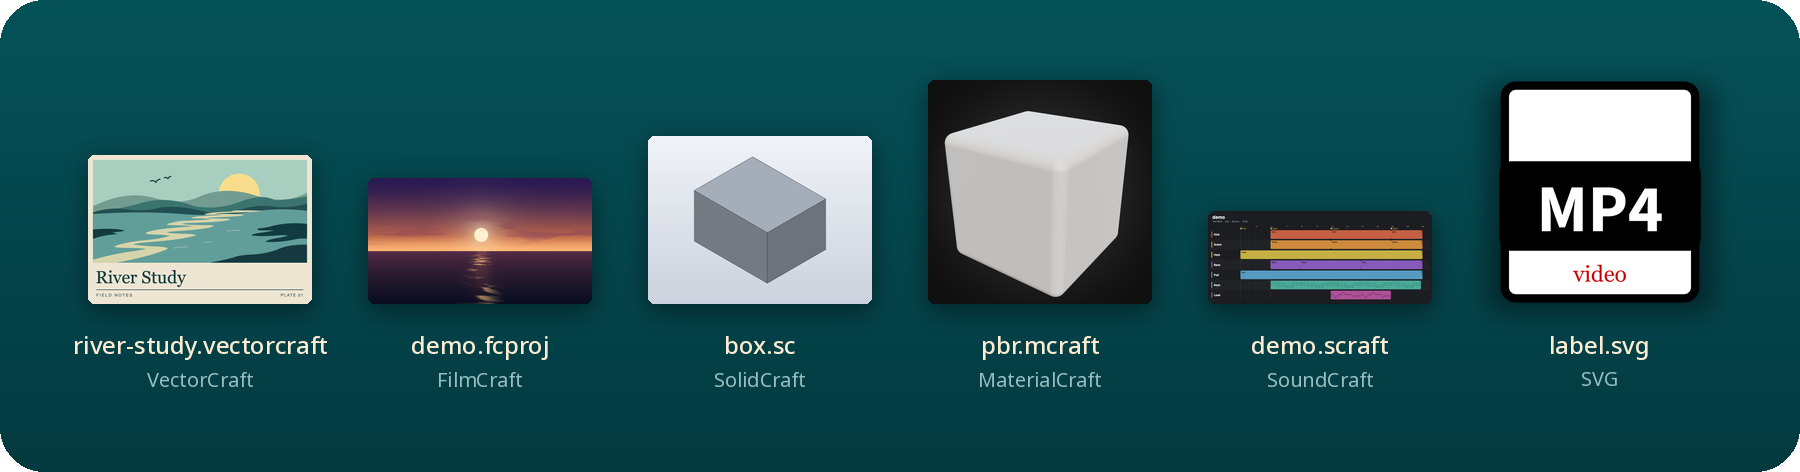
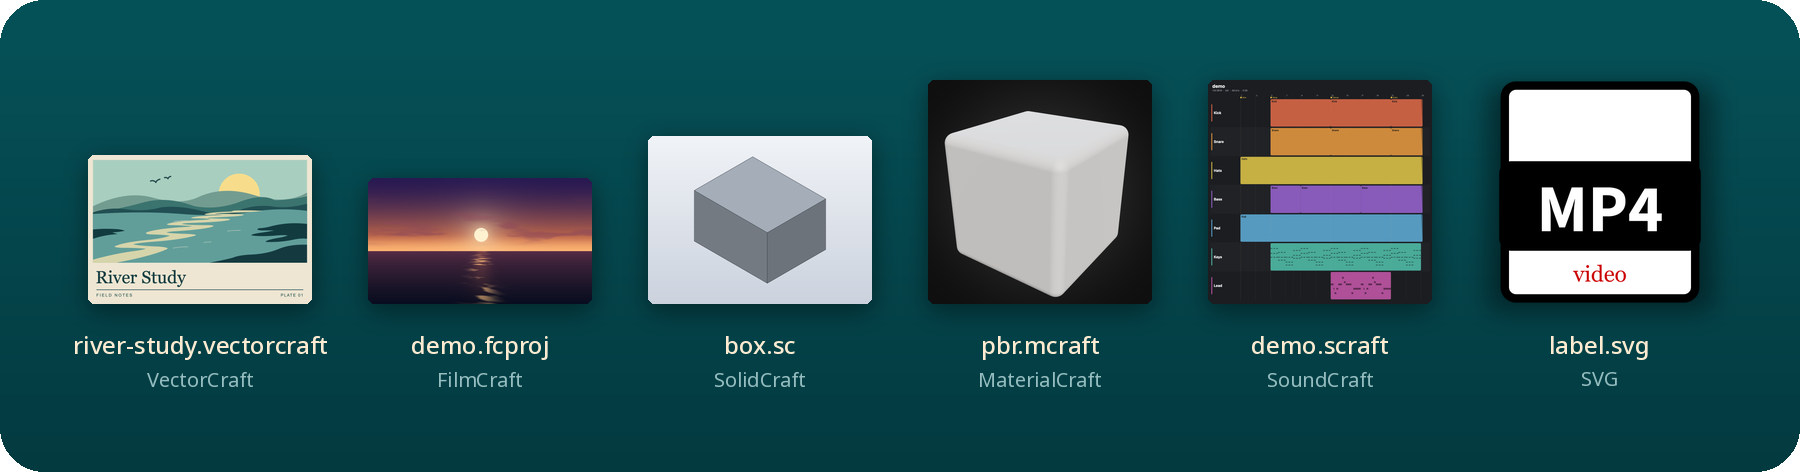
CraftLook 0.3.1: timeline di SoundCraft quadrata e build pronta per la notarizzazione
- Sources/Timeline.swift: la scheda è sempre quadrata, 1600 punti per lato; le corsie si dividono
  l'altezza sotto il righello, fino a 240 punti l'una, e poche tracce stanno al centro.
  Tests/check.py prova tre sessioni (normale, 64 tracce lunghe, una traccia): 2048x2048.
- build.sh: runtime protetto su ogni parte, dall'interno verso l'esterno (renderer, servizio,
  estensioni, app), con l'identità di CRAFTLOOK_SIGN_ID e la marca temporale, o ad hoc senza.
  I renderer tengono gli entitlement della firma originale: solo SolidCraft ne ha uno,
  allow-unsigned-executable-memory, per i plugin WebAssembly del suo wasmtime.
- scripts/release.sh: build firmata, notarytool submit col profilo craftlook-notary, stapler,
  spctl, gli archivi craftlook-<versione>-macos.zip e -source.zip e il file degli SHA-256.
- Versione 0.3.1 (build 11), la prima release col nome CraftLook: le note della 0.3.0, mai
  pubblicata, diventano docs/release-notes/0.3.1.md; README, Rules.md e THIRD_PARTY.md
  aggiornati, e docs/images/formats.png con la timeline quadrata.

Agent: Grok Bot

Changed region(s): [[0.6533, 0.1483, 0.8089, 0.6229]]

diff --git a/Sources/Timeline.swift b/Sources/Timeline.swift
@@ -4,12 +4,13 @@ import CoreGraphics
 /// The timeline of a SoundCraft session (.scraft, JSON), drawn as a diagram: one lane per track,
 /// its clips where and as long as they play, MIDI notes inside instrument clips, markers and playhead.
 /// SoundCraft counts time in samples at the session's rate and MIDI notes in ticks of 1/960 of a beat.
+/// The card is always square, like a Finder thumbnail: the lanes share its height, whatever the session.
 enum Timeline {
     private struct Clip { let start, length: Double; let name: String; let muted: Bool
                           let fadeIn, fadeOut: Double; let notes: [(start: Double, length: Double, pitch: Int)] }
     private struct Track { let name: String; let color: CGColor; let muted: Bool; let clips: [Clip] }
     private static let ticksPerBeat = 960.0
-    private static let width: CGFloat = 1600
+    private static let side: CGFloat = 1600
 
     static func image(_ data: Data, maxSide: Int) throws -> CGImage {
         guard let root = try JSONSerialization.jsonObject(with: data) as? [String: Any],
@@ -30,21 +31,22 @@ enum Timeline {
         let playhead = number((root["edit"] as? [String: Any])?["playhead"])
         let end = max(rate, ([0] + tracks.flatMap { $0.clips.map { $0.start + $0.length } } + markers.map { $0.0 }).max()!) * 1.03
 
-        // The layout, in points of a 1600-point-wide card.
+        // The layout, in points of a square card 1600 points wide: the lanes fill the height under the ruler,
+        // up to 240 points each, and a few tall lanes sit in the middle of it.
+        let width = side, height = side
         let header: CGFloat = 96, ruler: CGFloat = 36, left: CGFloat = 232, right: CGFloat = 28, bottom: CGFloat = 28
-        let lane = tracks.isEmpty ? 72 : max(22, min(72, (1000 - header - ruler - bottom) / CGFloat(tracks.count)))
-        let height = max(560, header + ruler + lane * CGFloat(max(tracks.count, 1)) + bottom)
-        let side = CGFloat(min(2048, max(16, maxSide)))
-        let scale = side / max(width, height)
-        let context = try Drawing.canvas(width: Int((width * scale).rounded()), height: Int((height * scale).rounded()),
-                                         scale: scale)
+        let area = height - header - ruler - bottom
+        let lane = min(240, area / CGFloat(max(tracks.count, 1)))
+        let pixels = CGFloat(min(2048, max(16, maxSide)))
+        let scale = pixels / side
+        let context = try Drawing.canvas(width: Int(pixels), height: Int(pixels), scale: scale)
         let readable = 11 * scale >= 5
         let span = width - left - right
         func x(_ sample: Double) -> CGFloat { left + CGFloat(sample / end) * span }
 
         Drawing.roundedRect(context, CGRect(x: 0, y: 0, width: width, height: height), radius: 28,
                             fill: Drawing.color(0x1B, 0x1D, 0x21))
-        let top = header + ruler
+        let top = header + ruler, lanes = top + (area - lane * CGFloat(tracks.count)) / 2
         let white = Drawing.color(0xF2, 0xF2, 0xF2), grey = Drawing.color(0x9A, 0xA0, 0xA8)
         if readable {
             Drawing.text(context, root["name"] as? String ?? "", at: CGPoint(x: 32, y: 22), size: 34, bold: true,
@@ -71,7 +73,7 @@ enum Timeline {
         }
 
         for (row, track) in tracks.enumerated() {
-            let y = top + lane * CGFloat(row)
+            let y = lanes + lane * CGFloat(row)
             if row % 2 == 1 {
                 context.setFillColor(Drawing.color(255, 255, 255, 0.025))
                 context.fill(CGRect(x: 16, y: y, width: width - 32, height: lane))
@@ -79,8 +81,9 @@ enum Timeline {
             let color = track.muted ? Drawing.color(0x5A, 0x5F, 0x66) : track.color
             Drawing.roundedRect(context, CGRect(x: 24, y: y + lane * 0.2, width: 6, height: lane * 0.6), radius: 3, fill: color)
             if readable, lane >= 24 {
-                Drawing.text(context, track.name, at: CGPoint(x: 42, y: y + (lane - min(20, lane * 0.4) * 1.25) / 2),
-                             size: min(20, lane * 0.4), bold: true, color: track.muted ? grey : white, width: left - 54)
+                let size = min(26, lane * 0.4)
+                Drawing.text(context, track.name, at: CGPoint(x: 42, y: y + (lane - size * 1.25) / 2),
+                             size: size, bold: true, color: track.muted ? grey : white, width: left - 54)
             }
             for clip in track.clips {
                 let box = CGRect(x: x(clip.start), y: y + 5, width: max(2, x(clip.start + clip.length) - x(clip.start)),
@@ -145,7 +148,7 @@ enum Timeline {
         }
         context.restoreGState()
         if readable, box.width > 48, box.height >= 20, clip.notes.isEmpty {
-            Drawing.text(context, clip.name, at: CGPoint(x: box.minX + 8, y: box.minY + 4), size: min(14, box.height * 0.36),
+            Drawing.text(context, clip.name, at: CGPoint(x: box.minX + 8, y: box.minY + 4), size: min(18, box.height * 0.3),
                          bold: true, color: Drawing.color(0x10, 0x12, 0x14, 0.85), width: box.width - 14)
         }
     }

diff --git a/Tests/check.py b/Tests/check.py
@@ -55,6 +55,9 @@ def all_files(d):
                        {'name':'Tastiere','kind':'Instrument','color':[80,190,168],'active_playlist':0,'playlists':[{'clips':[{'name':'Accordi','start':48000,'length':96000,
                         'content':{'Midi':{'sequence':{'notes':[{'pitch':60,'start':0,'length':900},{'pitch':64,'start':960,'length':900}]}}}}]}]}]}
     (d/'session.scraft').write_text(json.dumps(session))
+    crowded=dict(session,name='Affollata',tracks=[dict(session['tracks'][0],name=f'Traccia {i}',playlists=[{'clips':[{'name':'Clip','start':i*48000*60,'length':48000*30}]}]) for i in range(64)])
+    (d/'crowded.scraft').write_text(json.dumps(crowded))
+    (d/'solo.scraft').write_text(json.dumps(dict(session,name='Sola',tracks=session['tracks'][:1])))
     (d/'notes.scraft').write_text(json.dumps({'name':'Senza formato','tracks':[]}))
     (d/'input.png').write_bytes(red)
     header=struct.pack('>4sH6xHIIHH',b'8BPS',1,3,2,2,8,3)
@@ -86,10 +89,11 @@ if __name__=='__main__':
             expected='2048x2048 ff0000' if '-pdf.vectorcraft' in name else '2x2 ff0000'
             assert result.stdout.decode().strip()==expected,(name,result.stdout)
             checks+=1
-        # A SoundCraft session is drawn as its timeline: a card 1600 points wide and 560 high at 2048 pixels.
-        result=subprocess.run([command,d/'session.scraft'],capture_output=True)
-        assert result.returncode==0 and result.stdout.decode().split()[0]=='2048x717',('session.scraft',result.stdout,result.stderr)
-        checks+=1
+        # A SoundCraft session is drawn as its timeline, on a square card whatever its tracks and length.
+        for name in ['session.scraft','crowded.scraft','solo.scraft']:
+            result=subprocess.run([command,d/name],capture_output=True)
+            assert result.returncode==0 and result.stdout.decode().split()[0]=='2048x2048',(name,result.stdout,result.stderr)
+            checks+=1
         for name in ['notes.scraft','broken.figcraft','absent.tcraft','wrong.figcraft','other.drawcraft','oversized.figcraft','forged.psd','escape.pcraft']:
             result=subprocess.run([command,d/name],capture_output=True)
             assert result.returncode!=0,(name,result.stdout)

diff --git a/configure.py b/configure.py
@@ -27,7 +27,7 @@ def write(path, data):
 def info(name, kind, identifier):
     return dict(CFBundleExecutable=name, CFBundleIdentifier=identifier, CFBundleName=name,
                 CFBundleDisplayName='CraftLook', CFBundlePackageType=kind,
-                CFBundleVersion='10', CFBundleShortVersionString='0.3.0',
+                CFBundleVersion='11', CFBundleShortVersionString='0.3.1',
                 CFBundleInfoDictionaryVersion='6.0', LSMinimumSystemVersion='13.0',
                 CFBundleDevelopmentRegion='it', CFBundleSupportedPlatforms=['MacOSX'])
 

diff --git a/docs/release-notes/0.3.1.md b/docs/release-notes/0.3.1.md
@@ -1,40 +1,40 @@
-# CraftLook 0.3.0
+# CraftLook 0.3.1
 
-CraftLook 0.3.0 (build 10) brings Finder thumbnails and Space-bar previews to SolidCraft, FilmCraft, MaterialCraft, EffectCraft and SoundCraft projects and to SVG files, with twice the renderers in a download of about the same size.
+CraftLook 0.3.1 (build 11) is the first release under the new name. It brings Finder thumbnails and Space-bar previews to SolidCraft, FilmCraft, MaterialCraft, EffectCraft and SoundCraft projects and to SVG files, with twice the renderers in a download of about the same size.
 
 ## Highlights
 
 - **A new name.** ArtCraft Quick Look is now **CraftLook**, with the same kingfisher.
+- **Signed and notarized.** The app is signed with a Developer ID and notarized by Apple, with the hardened runtime on every part of it, so it opens like any other downloaded app.
 - **Six new formats.** SolidCraft (`.sc`, `.solidcraft`), FilmCraft (`.fcproj`), MaterialCraft (`.mcraft`), EffectCraft (`.ecproj`, `.ecprojx`) and SoundCraft (`.scraft`) projects now show what's inside, next to FigCraft, DesignCraft, VectorCraft, TextureCraft, PhotoCraft and Photoshop.
 - **SVG with real text.** SVG files (`.svg`) are drawn by the VectorCraft renderer, text included.
 - **Full-size thumbnails.** Finder thumbnails fill their whole frame instead of a smaller box inside it.
 - **Renderers in the app only once.** The thumbnail and preview extensions share a single copy of the renderers: eight of them now fit in about the same download as the four of 0.2.5, and in about 1.6 GB once installed.
 - **Parallel requests.** When Finder asks for many thumbnails at once, the renderer service queues them instead of turning them away, so a folder full of projects fills in completely.
 - **FilmCraft placeholders.** A picture that Quick Look can't read, because it lives outside the project, becomes a green rounded rectangle of its size, in its place, so the frame keeps its layout.
-- **SoundCraft timeline.** A session shows its tracks, clips where and as long as they play, fades, MIDI notes, markers and the playhead.
-- **Latest renderers.** Every renderer is at its latest release, pre-releases included: FigCraft 0.18.1, DesignCraft 0.20.1, VectorCraft 0.24.1, TextureCraft 0.6.1, SolidCraft 0.46.2, FilmCraft 0.20.1, MaterialCraft 0.4.1 and EffectCraft 0.24.1. [Upstream releases and credits](https://github.com/Roccobot/CraftLook/blob/v0.3.0/THIRD_PARTY.md)
+- **SoundCraft timeline.** A session shows, on a square card that fits Finder's thumbnails, its tracks, clips where and as long as they play, fades, MIDI notes, markers and the playhead.
+- **Latest renderers.** Every renderer is at its latest release, pre-releases included: FigCraft 0.18.1, DesignCraft 0.20.1, VectorCraft 0.24.1, TextureCraft 0.6.1, SolidCraft 0.46.2, FilmCraft 0.20.1, MaterialCraft 0.4.1 and EffectCraft 0.24.1. [Upstream releases and credits](https://github.com/Roccobot/CraftLook/blob/v0.3.1/THIRD_PARTY.md)
 
 ## Install
 
-Download **craftlook-0.3.0-macos.zip** (about 720 MB), unzip it, move **CraftLook** into **Applications**, and open it once. The app targets **macOS 13 or later** on Intel and Apple silicon, and needs no ArtCraft app installed.
+Download **craftlook-0.3.1-macos.zip** (about 720 MB), unzip it, move **CraftLook** into **Applications**, and open it once. The app targets **macOS 13 or later** on Intel and Apple silicon, and needs no ArtCraft app installed.
 
 **Upgrading from 0.2.5?** The app is now called CraftLook. Quit **ArtCraft Quick Look** and delete it from **Applications** before you install CraftLook, so that the two don't handle the same files. Finder picks up the new formats by itself.
 
-Select a supported file in Finder and press **Space**. For a small example, download [River Study](https://raw.githubusercontent.com/Roccobot/CraftLook/v0.3.0/examples/river-study.vectorcraft).
+Select a supported file in Finder and press **Space**. For a small example, download [River Study](https://raw.githubusercontent.com/Roccobot/CraftLook/v0.3.1/examples/river-study.vectorcraft).
 
 ## Good to know
 
-- **Not yet notarized.** The app is ad hoc signed and has not been notarized by Apple, so macOS may refuse to open it the first time. Go to **System Settings**, **Privacy & Security**, and click **Open Anyway**. [Apple's guide](https://support.apple.com/en-us/102445)
 - **SVG and other previewers.** macOS uses one Quick Look extension for each file type. If Looq, Gapplin or another app previews SVG files, turn its extension off in **System Settings**, **General**, **Login Items & Extensions**, **Quick Look**, so that CraftLook shows them.
 - **Files outside the project.** Quick Look doesn't let the renderer read them, so such projects may look different from the app, as the FilmCraft placeholders show.
 
 ## Checksums
 
-SHA-256, also in **craftlook-0.3.0-SHA256.txt**:
+SHA-256, also in **craftlook-0.3.1-SHA256.txt**:
 
 ```text
-<sha256>  craftlook-0.3.0-macos.zip
-<sha256>  craftlook-0.3.0-source.zip
+<sha256>  craftlook-0.3.1-macos.zip
+<sha256>  craftlook-0.3.1-source.zip
 ```
 
-The source code is MIT-licensed and the kingfisher has [separate artwork terms](https://github.com/Roccobot/CraftLook/blob/v0.3.0/ARTWORK.md).
+The source code is MIT-licensed and the kingfisher has [separate artwork terms](https://github.com/Roccobot/CraftLook/blob/v0.3.1/ARTWORK.md).

diff --git a/Rules.md b/Rules.md
@@ -17,7 +17,8 @@
   progetto. I renderer sono le CLI universali di FigCraft, DesignCraft, VectorCraft, TextureCraft,
   SolidCraft, FilmCraft, MaterialCraft ed EffectCraft, che `scripts/prepare_renderers.py` scarica
   controllandone lo SHA-256; i file SVG li disegna la CLI di VectorCraft, e la timeline delle
-  sessioni di SoundCraft la disegna l'app stessa (`Sources/Timeline.swift`).
+  sessioni di SoundCraft la disegna l'app stessa (`Sources/Timeline.swift`), su una scheda sempre
+  quadrata (scelta dell'utente del 2026-11-22).
 - **I renderer sono nell'app una volta sola, nel servizio dell'estensione delle miniature**: un
   servizio XPC risponde solo al bundle che lo contiene, quindi l'estensione delle anteprime chiede
   a Quick Look una miniatura grande (`QLThumbnailGenerator`), che disegna l'altra estensione. Fino
@@ -35,7 +36,7 @@
 ## 🌿 Ramo e versione
 
 - **Ramo principale `main`.**
-- **L'app si chiama CraftLook dalla 0.3.0** (scelta dell'utente del 2026-11-22): `CraftLook.app`,
+- **L'app si chiama CraftLook dalla 0.3.1**, la prima release col nome nuovo (scelta dell'utente del 2026-11-22): `CraftLook.app`,
   identificativi `com.roccobot.craftlook`, `.preview`, `.thumbnail` e `.thumbnail.render`, archivi
   `craftlook-<versione>-macos.zip`, `-source.zip` e `-SHA256.txt`. Fino alla 0.2.5 era 'ArtCraft
   Quick Look', con gli identificativi `org.artcraftquicklook.local` e il repo `artcraft-quick-look`,
@@ -45,9 +46,19 @@
 - **Versione SemVer**, con la fonte unica in `configure.py`: `CFBundleShortVersionString` è la
   versione mostrata, `CFBundleVersion` il numero di build, che sale di uno a ogni versione
   pubblicata, non a ogni build provata. Al 2026-11-22 l'ultima pubblicata è `0.2.5` (`9`), e
-  `configure.py` porta già `0.3.0` (`10`), la versione in preparazione.
+  `configure.py` porta `0.3.1` (`11`), la versione in preparazione: la `0.3.0` (`10`) l'ha
+  provata solo l'utente sul suo Mac, e le sue novità sono nelle note della `0.3.1`
+  (`docs/release-notes/0.3.1.md`), una per versione pubblicata.
 - **Una versione pubblicata è una release di GitHub** di questo repo, con l'app costruita da
-  `build.sh`, firmata ad hoc e non notarizzata da Apple (lo dice il README).
+  `scripts/release.sh`: `build.sh` con l'identità Developer ID Application di
+  `CRAFTLOOK_SIGN_ID`, la notarizzazione col profilo `craftlook-notary` di `notarytool`, la
+  graffetta (`stapler`) e gli archivi con gli SHA-256. Senza identità `build.sh` firma ad hoc,
+  per le prove; finché una release non è notarizzata lo dice il README.
+- **Ogni parte dell'app ha il runtime protetto** (`--options runtime`), firmata dall'interno verso
+  l'esterno: renderer, servizio, estensioni, app. I renderer tengono gli entitlement della firma
+  originale (`--preserve-metadata=entitlements`): solo SolidCraft ne ha uno,
+  `com.apple.security.cs.allow-unsigned-executable-memory`, perché il suo wasmtime compila
+  WebAssembly; servizio ed estensioni tengono la sandbox.
 
 ## 🧰 Build e prove
 

diff --git a/README.it.md b/README.it.md
@@ -35,7 +35,7 @@ Seleziona un progetto ArtCraft nel Finder e premi **Spazio** per vederne il cont
 | FilmCraft | `.fcproj` | Il fotogramma della sequenza attiva sotto la testina di riproduzione salvata. Un rettangolo verde arrotondato prende il posto di ogni immagine che Quick Look non può leggere. |
 | MaterialCraft | `.mcraft` | Il materiale disegnato sulla scena 3D dell'app. |
 | EffectCraft | `.ecproj`, `.ecprojx` | La composizione attiva al suo istante corrente. |
-| SoundCraft | `.scraft` | La timeline: le tracce, le clip dove e quanto suonano, le note MIDI, i marker e la testina. |
+| SoundCraft | `.scraft` | La timeline su una scheda quadrata: le tracce, le clip dove e quanto suonano, le note MIDI, i marker e la testina. |
 | Documento Photoshop | `.psd` | Il composito che macOS legge con ImageIO. Photoshop non serve. |
 | Immagine SVG | `.svg` | Il disegno reso da VectorCraft, testo compreso. |
 
@@ -99,6 +99,12 @@ Il controllo del servizio manda gli stessi file al servizio dei renderer dell'ap
 
 ```sh
 Tests/service_check.sh "build/CraftLook.app" build/samples/* examples/river-study.vectorcraft
+```
+
+Ogni parte dell'app è firmata col runtime protetto, ad hoc se non si indica altro. Una release è firmata con un'identità Developer ID Application, notarizzata da Apple, graffettata e impacchettata con i suoi checksum SHA-256. Le credenziali di notarizzazione sono un profilo del portachiavi salvato una volta con `xcrun notarytool store-credentials craftlook-notary`.
+
+```sh
+CRAFTLOOK_SIGN_ID="Developer ID Application: NOME (TEAM)" scripts/release.sh "$PWD/release" "$PWD/engines"
 ```
 
 ## Fonti dei formati

diff --git a/README.md b/README.md
@@ -35,7 +35,7 @@ Select an ArtCraft project in Finder and press **Space** to see what's inside, w
 | FilmCraft | `.fcproj` | The frame of the active sequence at the saved playhead. A green rounded rectangle takes the place of each picture Quick Look can't read. |
 | MaterialCraft | `.mcraft` | The material rendered on the app's 3D scene. |
 | EffectCraft | `.ecproj`, `.ecprojx` | The active composition at its current time. |
-| SoundCraft | `.scraft` | The timeline: tracks, clips where and as long as they play, MIDI notes, markers and playhead. |
+| SoundCraft | `.scraft` | The timeline on a square card: tracks, clips where and as long as they play, MIDI notes, markers and playhead. |
 | Photoshop document | `.psd` | The composite that macOS ImageIO can read. Photoshop is optional. |
 | SVG image | `.svg` | The drawing rendered by VectorCraft, text included. |
 
@@ -99,6 +99,12 @@ The service check sends the same files to the app's renderer service, in its san
 
 ```sh
 Tests/service_check.sh "build/CraftLook.app" build/samples/* examples/river-study.vectorcraft
+```
+
+Every part of the app is signed with the hardened runtime, ad hoc by default. A release is signed with a Developer ID Application identity, notarized by Apple, stapled and packaged with its SHA-256 checksums. The notary credentials are a keychain profile saved once with `xcrun notarytool store-credentials craftlook-notary`.
+
+```sh
+CRAFTLOOK_SIGN_ID="Developer ID Application: NAME (TEAM)" scripts/release.sh "$PWD/release" "$PWD/engines"
 ```
 
 ## Format sources

diff --git a/THIRD_PARTY.md b/THIRD_PARTY.md
@@ -13,4 +13,4 @@ CraftLook packages the universal macOS CLI releases listed below. Each renderer'
[2 lines of base64/hex data omitted]
 
-SolidCraft comes from Tangency Labs, the other renderers from the ArtCraft team. The upstream notices offer the renderer code under MIT or Apache-2.0 and identify separate terms for third-party components and ArtCraft branding. The macOS build signs local copies of the CLI executables as part of signing the application.
+SolidCraft comes from Tangency Labs, the other renderers from the ArtCraft team. The upstream notices offer the renderer code under MIT or Apache-2.0 and identify separate terms for third-party components and ArtCraft branding. The macOS build signs local copies of the CLI executables as part of signing the application, with the hardened runtime and the entitlements of their upstream signature: SolidCraft's allow-unsigned-executable-memory, for the WebAssembly code its wasmtime compiles, is the only one.
